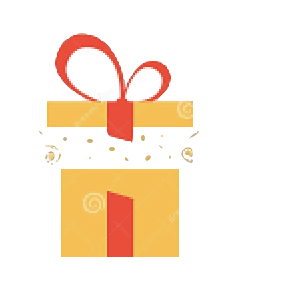
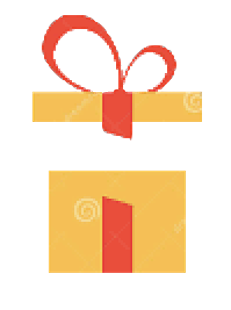
game update

Changed region(s): [[0.1212, 0.0306, 0.8788, 0.8878]]

diff --git a/game.html b/game.html
@@ -101,6 +101,66 @@
 
 
 	}
+	#present2closed{
+		height: 200px;
+		width: 200px;
+		background-image: url(present1closed.png);
+		background-size: contain;
+		background-repeat: no-repeat;
+		position: absolute;
+		z-index: 3;
+		left: 610px;
+		top: 430px;
+		background-position: center center;
+        filter: drop-shadow(0 0 1px black);
+    }
+    #present2open{
+		height: 180px;
+		width: 180px;
+		background-image: url(present1open.png);
+		background-size: contain;
+		background-repeat: no-repeat;
+		position: absolute;
+		z-index: 3;
+		left: 628px;
+		top: 435px;
+		background-position: center center;
+        filter: drop-shadow(0 0 1px black);
+    }
+	#present1open{
+		height: 180px;
+		width: 180px;
+		background-image: url(present1open.png);
+		background-size: contain;
+		background-repeat: no-repeat;
+		position: absolute;
+		z-index: 3;
+		left: 438px;
+		top: 435px;
+		background-position: center center;
+        filter: drop-shadow(0 0 1px black);
+
+
+
+	}
+	#present1price{
+		height: 50px;
+		width: 50px;
+		font-size: 30px;
+		left: 505px;
+		top: 590px;
+		position: absolute;
+		z-index: 100;
+	}
+	#present2price{
+		height: 50px;
+		width: 50px;
+		font-size: 30px;
+		left: 685px;
+		top: 590px;
+		position: absolute;
+		z-index: 100;
+	}
 </style>
 </head>
 <body>
@@ -110,13 +170,21 @@
 	<audio id="doki" src="doki.mp3" loop="loop"></audio>
 
 
-
-
+<!-- <div id="present1closed"></div>
+ -->
 <script type="text/javascript">
+	var firstpresent = document.createElement("div")
+	var secondpresent = document.createElement("div")
+	var present1bought = 0
+	var present2bought = 0
 	var f = 0
 	var x = 0
 	var bal = document.getElementById("balance");
 	var shopicon = document.getElementById('shopicon')
+	var doki = document.getElementById("doki")
+	function dokimusic () {
+    	doki.play();
+}
 	function makecoin () {
 		var coinwidth = Math.round(Math.random()*1350)
 		var coinheight = Math.round(Math.random()*680)
@@ -136,7 +204,11 @@
 		coin.style.left = coinwidth + "px";
 		
 		coin.addEventListener("click", function () {
-				x = x + 1
+				if (present1bought == 0) {
+					x = x + 2}
+				if (present1bought == 1) {
+					x = x + 5
+				}
 				coin.id = "ded"
 				coin.classList.remove('coin')
 				bal.innerText = "Money: $" + x
@@ -154,16 +226,19 @@
 		var deletion = document.getElementById("back")
 		var storedel = document.getElementById("store")
 		var blackdel = document.getElementById("black")
-		var present1del = document.getElementById("present1closed")
+		var del$50 = document.getElementById("present1price")
+		var del$100 = document.getElementById("present2price")
 		if (f == 1) {
 			deletion.addEventListener("click", function () {
 				momodel.remove()
 				blackdel.remove()
 				storedel.remove()
-				present1del.remove()
 				deletion.remove()
-
-				
+				del$50.remove()
+				del$100.remove()
+				firstpresent.remove()
+				secondpresent.remove()
+				doki.volume = "1";
 				f = 0
 
 
@@ -171,6 +246,8 @@
 
 			
 		})}
+
+			
 
 
 
@@ -190,19 +267,31 @@
 				var arrow = document.createElement("div")
 				document.body.appendChild(arrow)
 				arrow.id = "back"
-				var firstpresentclosed = document.createElement("div")
-				document.body.appendChild(firstpresentclosed)
-				firstpresentclosed.id = "present1closed"
+				document.body.appendChild(firstpresent)
+				document.body.appendChild(secondpresent)
+				var present50 = document.createElement("div")
+				document.body.appendChild(present50)
+				present50.id = "present1price"
+				present50.innerText = "$50"
+				var present100 = document.createElement("div")
+				document.body.appendChild(present100)
+				present100.id = "present2price"
+				present100.innerText = "$100"
+				if (present1bought == 0) {firstpresent.id = "present1closed"
+			}
+				else if (present1bought == 1) {firstpresent.id = "present1open"
+			}
+				if (present2bought == 0) {secondpresent.id = "present2closed"
+			}
+				else if (present2bought == 1) {secondpresent.id = "present2open"
+			}
+				doki.volume = "0.4";
 
 				f = 1
 
 
 			}
-				else if (f == 1){
 
-
-
-				}
 
 
 
@@ -219,18 +308,55 @@
 		}
 
 
-	function dokimusic () {
-    	document.getElementById("doki").play();
-}
+	
 	function coindel () {
 		if (document.getElementById("ded")){	
 		document.getElementById("ded").remove()}
 	
 	}
+		
+
+
+	function present1open () {
+		if (x >= 50) {
+			if (f == 1) {firstpresent.addEventListener("click", function () {
+			if (present1bought == 0){
+			x = x - 50
+			bal.innerText = "Money: $" + x
+			present1bought = 1
+			firstpresent.id = "present1open"
+			console.log(x)
+
+
+
+
+			
+		}})}}}
+
+	function present2open () {
+		if (x >= 100) {
+			if (f == 1) {secondpresent.addEventListener("click", function () {
+			console.log(x)
+
+
+
+
+			
+		})}}}
+
+	
+			
+
+
+
+
+			
+
 
 
 document.addEventListener("click", dokimusic)
 document.addEventListener("keypress", dokimusic)
+document.addEventListener("click", present1open)
 
 setInterval (makecoin, 500)
 </script>

diff --git a/Journal.html b/Journal.html
@@ -232,6 +232,11 @@ body{margin: 0px;
 
 <div id="journal_entry6"><b>November 14th</b>: I realized that I havent done my present project yet so I might to it today. I was orignally gonna make something for my history teacher but then I realized that what I had in mind is going to take a lot of effort, so I'm probably going to do something more simple.</div>
 
+<div id="journal_entry7"><b>Jan 11th</b>: So they wanted us to watch some recap videos for 45 minutes or something so I did that, and afterwards make an emoji generator. But I didnt want to make some <i>lame</i> emoji generator so I decided to find some custom ones. Here is <a href="emoji.html" class="link">the link</a> to that if you want to see it, just press almost any button on the keyboard and it will work.
+
+
+</div>
+
 <center>
 <a href="index.html"> 
 <div id="Snack2" class="link"> <b>Home</b> 

diff --git a/colors.html b/colors.html
@@ -1,0 +1,33 @@
+<!DOCTYPE html>
+<html>
+<head>
+	<title></title>
+</head>
+<body>
+<style type="text/css">
+	#background{
+		height: 821px;
+		width: 100%;
+	}
+	body{
+		margin: 0px;
+	}
+
+</style>
+<div id="background"></div>
+
+<script type="text/javascript">
+	var b = 200
+	var background = document.getElementById("background");
+	function idk () {
+		
+		}
+	document.addEventListener("mousemove",function(event){
+		var r = event.clientX/6
+		var g = event.clientY/3
+		background.style.backgroundColor = "rgb(" + r + "," + g + "," + b + ")"
+		console.log(event.clientX, event.clientY)
+	})
+</script>
+</body>
+</html>

diff --git a/emoji.html b/emoji.html
@@ -34,10 +34,22 @@ function idk() {
 	console.log(x)
 	text.innerText = number[x]
 	if (x == 0) {
-		text.style.backgroundImage = "url(dino.png)";
+		text.style.backgroundImage = "url(bit.png)";
 	}
-	else if (x !== 0) {
-		text.style.backgroundImage = "url(cookie.png)";
+	if (x == 1) {
+		text.style.backgroundImage = "url(smirk.png)";
+	}
+	if (x == 2) {
+		text.style.backgroundImage = "url(smoke.png)";
+	}
+	if (x == 3) {
+		text.style.backgroundImage = "url(laugh.png)";
+	}
+	if (x == 4) {
+		text.style.backgroundImage = "url(mad.png)";
+	}
+	if (x == 5) {
+		text.style.backgroundImage = "url(thug.png)";
 	}
 
 
